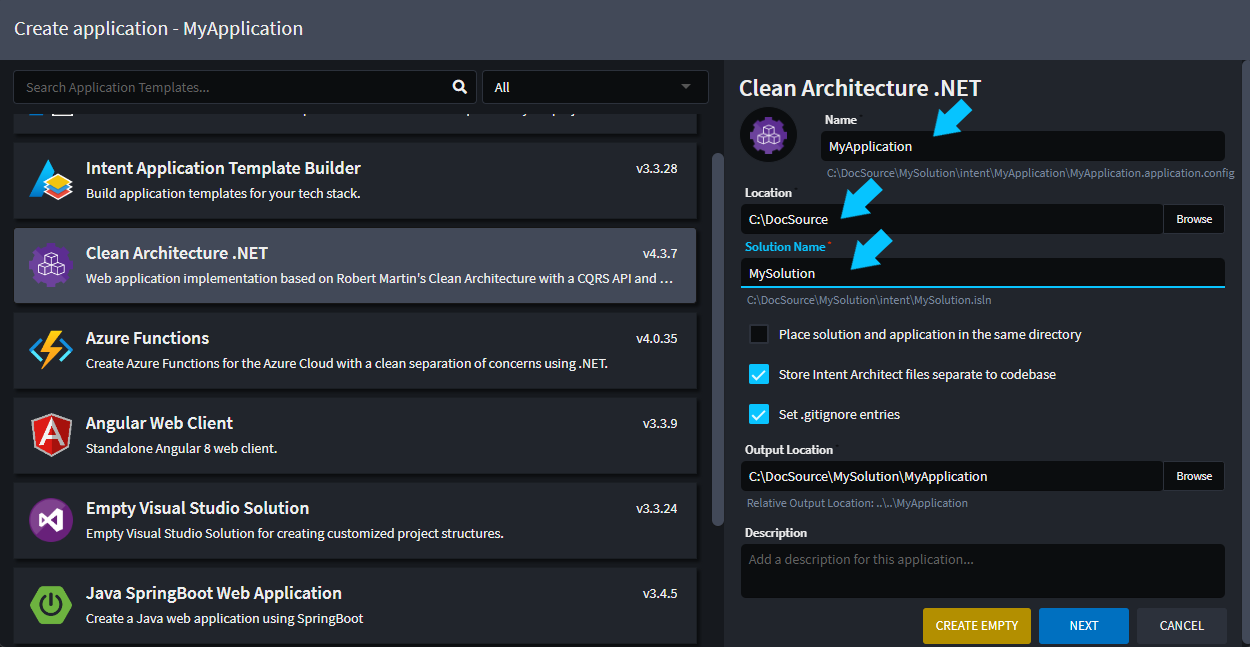
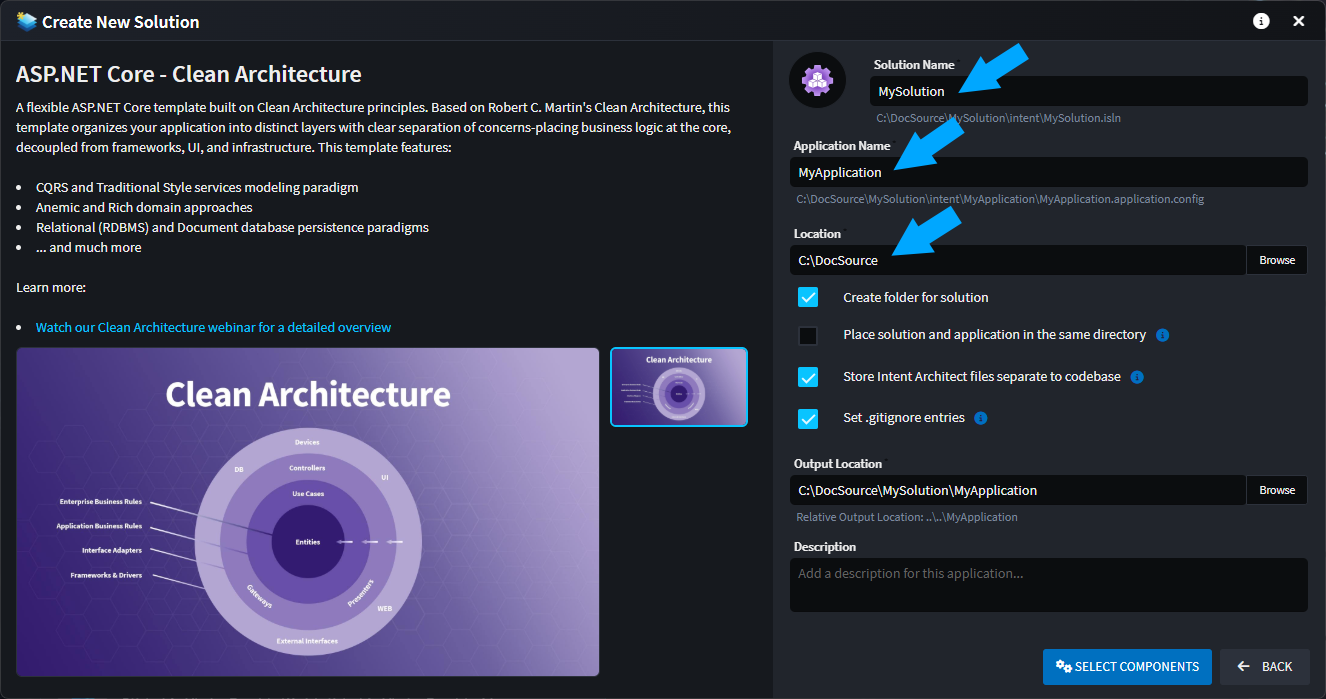
Update documentation to reflect changes in designer terminology and add new images for codebase structure designer

diff --git a/articles/application-development/for-developers/how-intent-architect-solutions-are-structured-on-the-file-system/how-intent-architect-solutions-are-structured-on-the-file-system.md b/articles/application-development/for-developers/how-intent-architect-solutions-are-structured-on-the-file-system/how-intent-architect-solutions-are-structured-on-the-file-system.md
@@ -66,8 +66,8 @@ If you have worked with C# solutions before, this should look familiar to you. H
 ![Application Source Code](./images/application-source.png)
 
 > [!NOTE]
-> If you are wondering why the C# solutions / projects are generated the way they are, this has been configured in the [`Visual Studio Designer`](xref:application-development.applications-and-solutions.about-the-visual-studio-designer) or `Folder Designer` with in Intent Architect.
-> ![Visual Studio Designer configuration](./images/visual-studio-designer.png)
+> If you are wondering why the C# solutions / projects are generated the way they are, this has been configured in the [`Codebase Structure Designer`](xref:application-development.applications-and-solutions.about-the-codebase-structure-designer) or `Folder Designer` with in Intent Architect.
+> ![Codebase Structure Designer configuration](./images/codebase-structure-designer.png)
 
 ### Intent Architect Solution data
 
@@ -106,7 +106,7 @@ This Folder contains all the Metadata described in the installed `Designer`s, fo
 
 * Domain Designer
 * Services Designer
-* Visual Studio Designer
+* Codebase Structure Designer
 
 Then this folder would contain 3 sub-folders, one for each designer where each of these children would contain all the Metadata for their designer.
 